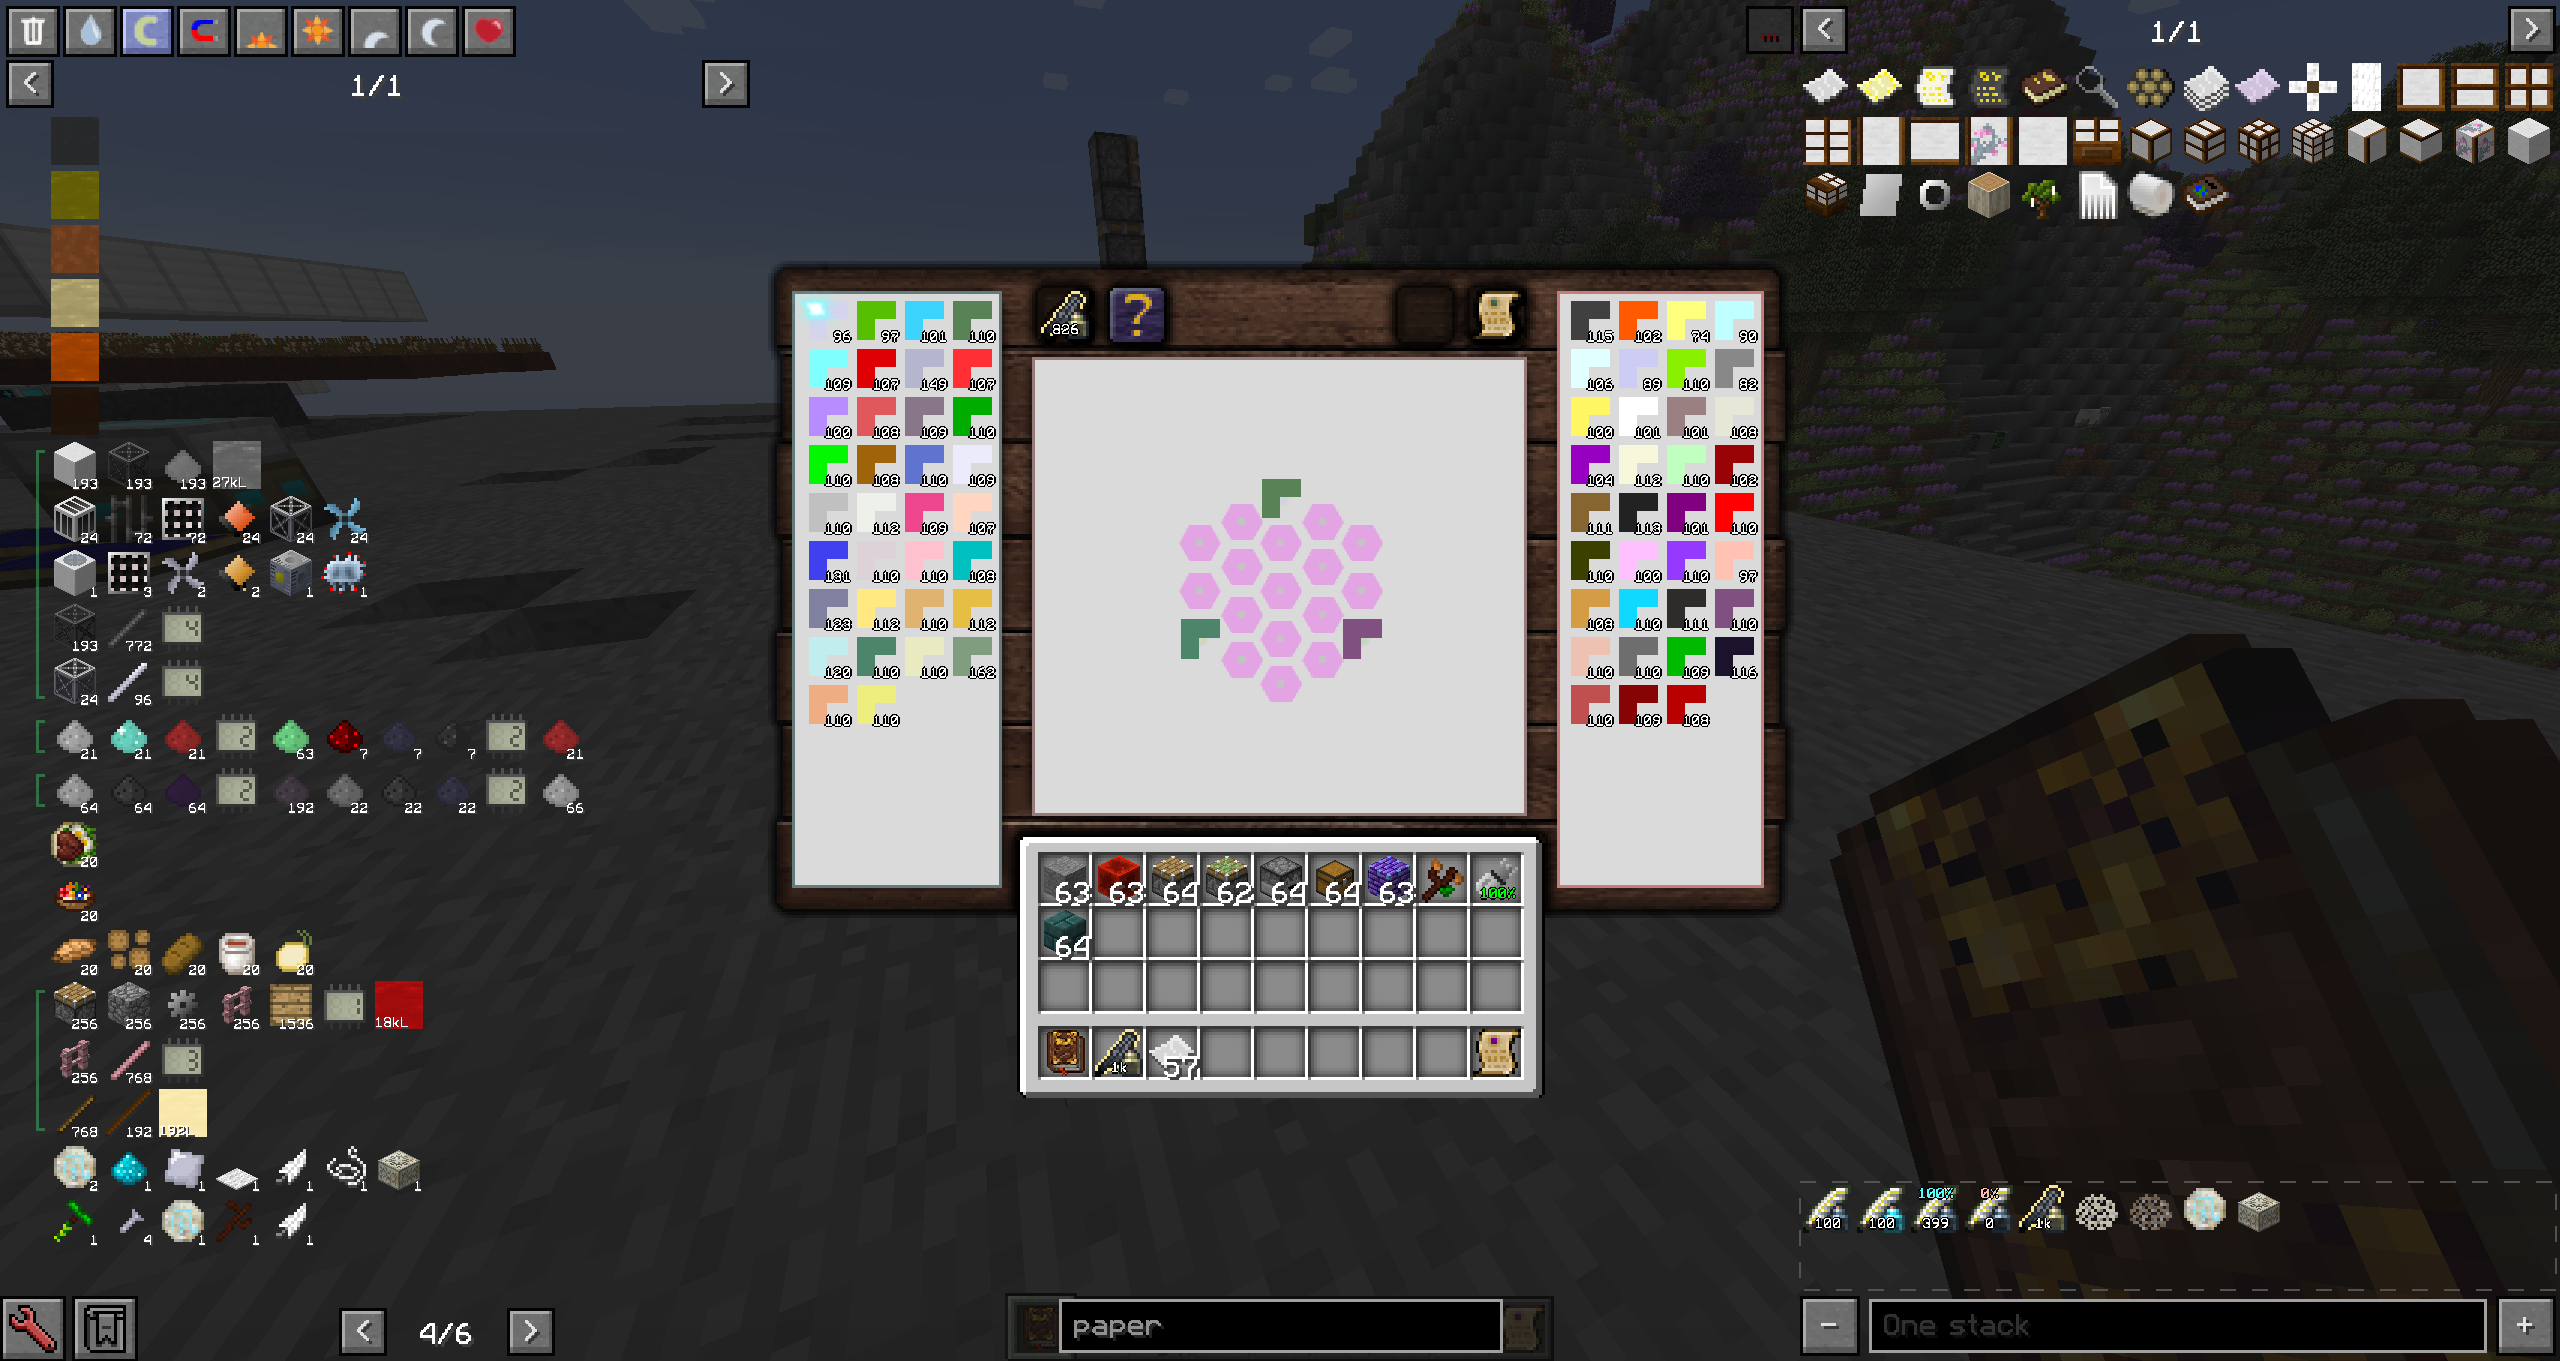
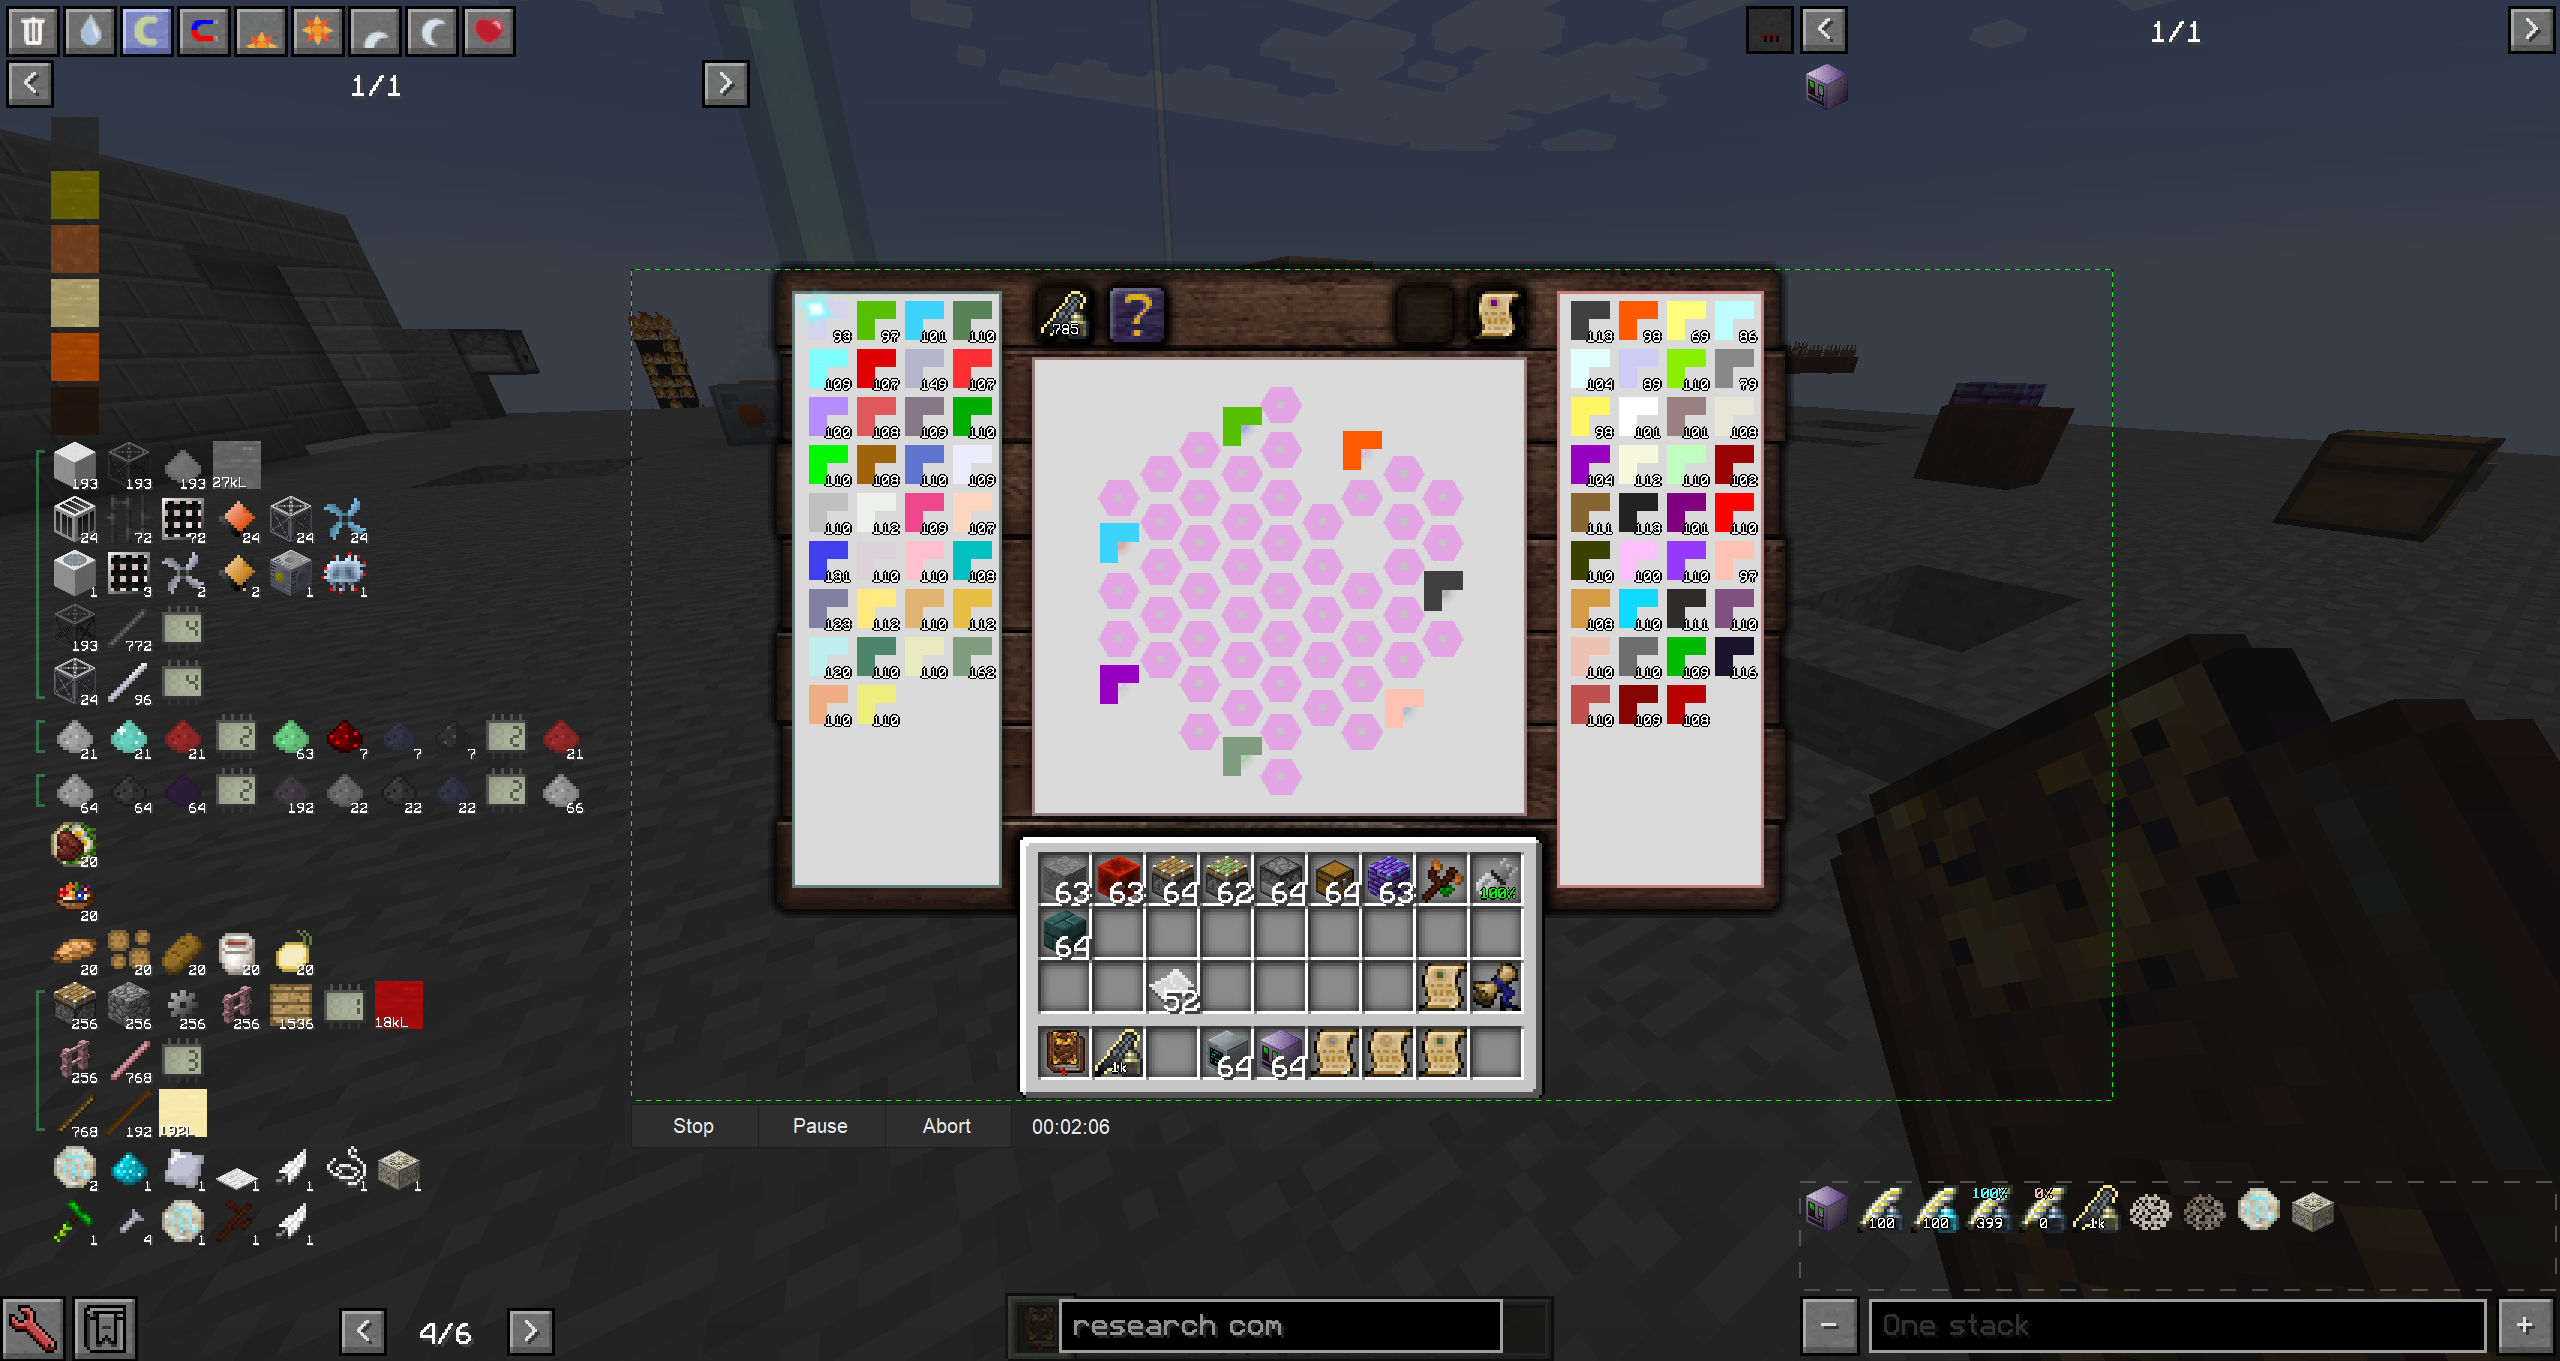
add path shortcutting
may path to an existing paths node instead of the actual goal

diff --git a/src/thaumcraft4_research_bot/utils/solvers/ringsolver.py b/src/thaumcraft4_research_bot/utils/solvers/ringsolver.py
@@ -1,8 +1,9 @@
 from thaumcraft4_research_bot.utils.grid import HexGrid, SolvingHexGrid
-from typing import Tuple
+from thaumcraft4_research_bot.utils.aspects import calculate_cost_of_aspect_path
+from typing import Tuple, List
 
 
-def solve(grid: HexGrid, start_aspects: list[Tuple[int, int]]) -> SolvingHexGrid:
+def solve(grid: HexGrid, start_aspects: List[Tuple[int, int]]) -> SolvingHexGrid:
     solving = SolvingHexGrid.from_hexgrid(grid)
 
     # create paths_to_connect by finding the 2 closest neighbors of each aspect via pathfinding.
@@ -13,6 +14,7 @@ def solve(grid: HexGrid, start_aspects: list[Tuple[int, int]]) -> SolvingHexGrid
             if other == start_aspect:
                 continue
             # try:
+            print("Ringsolver is Pathfinding from", start_aspect, "to", other)
             neigh_paths.append((other, len(solving.pathfind_board_shortest(start_aspect, other))))
             # except:
             #     print("Pathfind from", start_aspect, "to", other, "failed")
@@ -42,48 +44,67 @@ def solve(grid: HexGrid, start_aspects: list[Tuple[int, int]]) -> SolvingHexGrid
             break
 
 
-    all_paths = []
-    path_indices = []
+    # (type[], (x, y)[])[][]
+    # different source-destination ; different alternate paths ; different steps of path
+    all_paths: List[List[Tuple[ List[Tuple[str]],List[Tuple[int, int]]] ]] = []
+    path_indices: List[int] = []
     index = 0 # write head
 
-    print("Let's go backtracking!")
+    print("Beginning ring solver backtracking loop")
 
     while index < len(nodes_to_connect):
         start, end = nodes_to_connect[index]
 
         try: 
-            board_paths, element_path = solving.pathfind_both_and_update_grid(start, end)
-            all_paths.append(board_paths)
+            # todo: maybe sort board paths to push into the center?
+            board_paths, element_paths = solving.pathfind_both(start, end)
             # all_paths[index] = solving.pathfind_both_and_update_grid(start, end)
             path_indices.append(0)
             # path_indices[index] = 0
+
+            new_paths = [(element_paths[0], board_path) for board_path in board_paths]
+
+            different_target_paths = []
+            for applied_path in solving.applied_paths:
+                for _, coords in applied_path[1:-1]:
+                    try:
+                        # maybe could be made cheaper? maybe use bfs here?
+                        board_paths, element_paths = solving.pathfind_both(coords, end) # order matters!
+                        new_paths += [(element_paths[0], board_path) for board_path in board_paths]
+
+                    except:
+                        continue
+
+            new_paths.sort(key=lambda x: calculate_cost_of_aspect_path(x[0])) # todo: second grade sort by something else?
+
+            all_paths.append(new_paths)
+
+            initial_elem_path, initial_board_path = new_paths[0]
+
+            solving.apply_path(initial_board_path, initial_elem_path)
             index += 1
 
+            # TODO: do we still want to backtrack already if no direct connection is found?
+            # alternate connections may be shorter anyway. probably doesn't matter
         except:
-            print("LET'S BACKTRACK")
+            print("Pathfinding failed, backtracking")
+            # if index < 2: # TODO: Why 2? 1 couldn't work, but that doesn't make sense
+            #     raise Exception("No more paths to try in backtracking")
+            #     print("No more paths to try in backtracking")
+            #     return solving
             if path_indices[index - 1] == len(all_paths[index - 1]) - 1:
                 # No more paths to try for this one, backtrack
                 index -= 1
-                if index == 0:
-                    # raise Exception("No more paths to try in backtracking")
-                    print("No more paths to try in backtracking")
-                    return solving
 
                 path_indices.pop()
                 solving.applied_paths.pop()
                 print("Pop, Applied paths is now", solving.applied_paths)
 
             path_indices[index - 1] += 1
-            element_path, _ = list(zip(*solving.applied_paths[index - 1]))
-            solving.applied_paths[index - 1] = list(zip(element_path, all_paths[index - 1][path_indices[index - 1]]))
+            
+            current_elem_path, current_board_path = all_paths[index - 1][path_indices[index - 1]]
+            solving.applied_paths[index - 1] = list(zip(current_elem_path, current_board_path))
+
             print("Set, Applied paths is now", solving.applied_paths)
-            print("Was zipping", element_path, "with", all_paths[index - 1][path_indices[index - 1]])
-
-
-
-
-    # for start, end in nodes_to_connect:
-    #     solving.pathfind_both_and_update_grid(start, end)
-    #     print("Outer Applied paths is now", solving.applied_paths)
 
     return solving

diff --git a/src/thaumcraft4_research_bot/utils/grid.py b/src/thaumcraft4_research_bot/utils/grid.py
@@ -27,6 +27,7 @@ class HexGrid:
 
     def get_neighbors(self, coord: Tuple[int, int]) -> List[Tuple[int, int]]:
         q, r = coord
+        # todo: maybe sort neighbors by distance to center to promote going towards center?
         neighbor_deltas = [(0, 2), (1, 1), (1, -1), (0, -2), (-1, -1), (-1, 1)]
 
         neighbors_with_values = []
@@ -80,7 +81,6 @@ class HexGrid:
         all_paths = []
 
         def dfs(current: Tuple[int, int], path: List[Tuple[int, int]]):
-            # print("DFS stepping to", current, "with path", path)
             if len(path) > n:
                 return
 
@@ -90,23 +90,12 @@ class HexGrid:
 
             for neighbor in self.get_neighbors(current):
                 neighbor_value = self.get_value(neighbor)
-                # print("DFS looking at neighbor", neighbor, "with value", neighbor_value)
                 if neighbor not in path and (
                     neighbor_value == "Free" or neighbor == end
                 ):
                     path.append(neighbor)
                     dfs(neighbor, path)
                     path.pop()
-                # else:
-                #     print(
-                #         "DFS neighbor",
-                #         neighbor,
-                #         "is not valid",
-                #         neighbor not in path,
-                #         neighbor_value == "Free",
-                #         neighbor == end,
-                #     )
-                #     print(self.applied_paths)
 
         dfs(start, [start])
 
@@ -119,6 +108,8 @@ class HexGrid:
         # use the imported find_all_element_paths_of_length_n(start_value, end_value, desired_length) -> list[list[str]]
         # it returns a list of element paths
         # if required_length is None:
+
+        print("Pathfind both from", start, "to", end)
 
         shortest_board_path = self.pathfind_board_shortest(start, end)
         board_paths = self.pathfind_board_of_length(

diff --git a/src/thaumcraft4_research_bot/utils/aspects.py b/src/thaumcraft4_research_bot/utils/aspects.py
@@ -1,3 +1,5 @@
+from typing import List
+
 aspect_parents = {
     "aer": (None, None),
     "aqua": (None, None),
@@ -154,8 +156,7 @@ def find_all_element_paths_of_length_n(start: str, end: str, n: int):
     # Compute the total cost of each path using the precomputed aspect_costs
     path_costs = []
     for path in paths:
-        total_cost = sum(aspect_costs[aspect] for aspect in path)
-        path_costs.append((total_cost, path))
+        path_costs.append((calculate_cost_of_aspect_path(path), path))
 
     path_and_costs = list(zip(paths, path_costs))
     # Sort the paths by total cost
@@ -166,6 +167,8 @@ def find_all_element_paths_of_length_n(start: str, end: str, n: int):
 
     return paths
 
+def calculate_cost_of_aspect_path(path: List[str]) -> int:
+    return sum(aspect_costs[aspect] for aspect in path)
 
 # Example usage:
 # starts = ["aer", "ignis"]

diff --git a/src/thaumcraft4_research_bot/main.py b/src/thaumcraft4_research_bot/main.py
@@ -183,13 +183,18 @@ def main():
     
     solved: SolvingHexGrid
     # try:
+    print("Starting solve computation")
+    start_time = time.time()
     solved = ringsolver_solve(grid, start_aspects)
+    end_time = time.time()
+
+    print(f"Time taken to compute solution: {end_time - start_time} seconds")
     # except Exception as e:
     #     print("Ringsolver failed to solve", e)
 
-    # for path in grid.applied_paths:
-    #     for aspect, coord in path[1:-1]:
-    #         place_aspect_at(window_base_coords, inventory_aspects, grid, aspect, coord)
+    for path in solved.applied_paths:
+        for aspect, coord in path[1:-1]:
+            place_aspect_at(window_base_coords, inventory_aspects, grid, aspect, coord)
 
     draw_board_coords(solved, draw)
     
